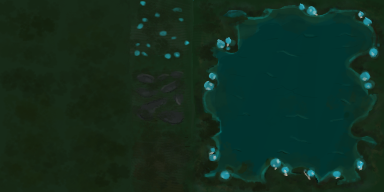
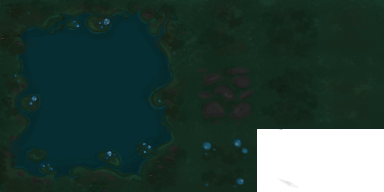
troca sprites e icones

diff --git a/src/Pickup.cpp b/src/Pickup.cpp
@@ -2,13 +2,13 @@
 #include "Collider.h"
 
 
-Pickup::Pickup(GameObject& associated, std::string sprite, TileCoords position, Type pt, float tileSize) : Component(associated){
-	Sprite* newspr=new Sprite((associated),sprite);
+Pickup::Pickup(GameObject& associated, TileCoords position, Type pt, float tileSize) : Component(associated){
+	this->pt = pt;
+	Sprite* newspr=new Sprite((associated),GetSprite());
 	associated.AddComponent(newspr);
 	//newspr->SetScaleX((tileSize/associated.box.w), (tileSize / associated.box.h));
 	Collider* newcol=new Collider(associated);
 	associated.AddComponent(newcol);
-	this->pt=pt;
 	newspr->SetScaleX((tileSize/associated.box.w)*0.5, (tileSize / associated.box.h)*0.5);
 	associated.box.x+=position.Center(tileSize).x-associated.box.Center().x;
 	associated.box.y+=position.Center(tileSize).y-associated.box.Center().y;
@@ -39,4 +39,14 @@ void Pickup::NotifyCollision(GameObject& other){
 		associated.RequestDelete();
 	}
 	return;
+}
+
+std::string Pickup::GetSprite() {
+	if (pt == MUFFLE) {
+		return "Recursos/img/Icon_chamariz.png";
+	}
+	else if (pt == HEALTH) {
+		return "Recursos/img/Icon_life.png";
+	}
+	return "";
 }

diff --git a/src/StageState.cpp b/src/StageState.cpp
@@ -22,7 +22,7 @@ StageState::StageState(){
 	quitRequested=false;
 	popRequested=false;
 	//tile set
-	tileSet = new TileSet(64,64,"Recursos/img/tile_copiar-3.png");
+	tileSet = new TileSet(64,64,"Recursos/img/tile_copiar.png");
 	//background
 	GameObject* bg=new GameObject();
 	Sprite* newspr=new Sprite((*bg),"Recursos/img/ocean.jpg");
@@ -102,16 +102,16 @@ StageState::StageState(){
 	AddObject(bush);
 	//pickup
 	GameObject* pickup = new GameObject();
-	Pickup* newpickup = new Pickup((*pickup), "Recursos/img/penguinface.png", { 2,2 }, Pickup::MUFFLE, 64);
+	Pickup* newpickup = new Pickup((*pickup), { 2,2 }, Pickup::MUFFLE, 64);
 	pickup->AddComponent(newpickup);
 	AddObject(pickup);
 	pickup = new GameObject();
-	newpickup = new Pickup((*pickup), "Recursos/img/hpheart.png", { 4,2 }, Pickup::HEALTH, 64);
+	newpickup = new Pickup((*pickup), { 4,2 }, Pickup::HEALTH, 64);
 	pickup->AddComponent(newpickup);
 	AddObject(pickup);
 	//health bar
 	GameObject* hpbar=new GameObject();
-	HealthBar* newbar=new HealthBar((*hpbar));
+	HealthBar* newbar=new HealthBar((*hpbar), 64);
 	hpbar->AddComponent(newbar);
 	AddObject(hpbar);
 	//skill bar

diff --git a/src/HealthBar.cpp b/src/HealthBar.cpp
@@ -3,11 +3,12 @@
 #include "Game.h"
 #include "CameraFollower.h"
 
-HealthBar::HealthBar(GameObject& associated) : Component(associated) {
+HealthBar::HealthBar(GameObject& associated, float iconSize) : Component(associated) {
 	CameraFollower* newflwr=new CameraFollower(associated);
 	associated.AddComponent(newflwr);
 	//cria sprite
-	Sprite* newspr = new Sprite((associated), "Recursos/img/hpheart.png");
+	Sprite* newspr = new Sprite((associated), "Recursos/img/Icon_life.png");
+	newspr->SetScaleX((iconSize / associated.box.w), (iconSize / associated.box.h));
 	associated.AddComponent(newspr);
 	return;
 }

diff --git a/src/Bush.cpp b/src/Bush.cpp
@@ -20,7 +20,7 @@ Bush::Bush(GameObject& associated, TileCoords position, float tileSize, int size
 	Collider* newcol = new Collider((associated));
 	associated.AddComponent(newcol);
 	//cria sprite
-	Sprite* newspr = new Sprite((associated), "Recursos/img/moita1.png");
+	Sprite* newspr = new Sprite((associated), "Recursos/img/arbusto1.png");
 	newspr->SetScaleX((tileSize/associated.box.w)*sizex, (tileSize / associated.box.h)*sizey);
 	associated.AddComponent(newspr);
 	associated.box.x = position.Location(tileSize).x;

diff --git a/include/Pickup.h b/include/Pickup.h
@@ -20,13 +20,14 @@
 class Pickup : public Component{
 public:
 	enum Type{MUFFLE, HEALTH};
-	Pickup(GameObject& associated, std::string sprite, TileCoords position, Type pt, float tileSize);
+	Pickup(GameObject& associated, TileCoords position, Type pt, float tileSize);
 	void Update(float dt);
 	void Render();
 	bool Is(std::string type);
 	void NotifyCollision(GameObject& other);
 	Type GetType();
 private:
+	std::string GetSprite();
 	Type pt;
 };
 

diff --git a/include/HealthBar.h b/include/HealthBar.h
@@ -19,7 +19,7 @@
 
 class HealthBar : public Component {
 public:
-	HealthBar(GameObject& associated);
+	HealthBar(GameObject& associated, float iconSize);
 	void Update(float dt);
 	void Render();
 	bool Is(std::string type);
